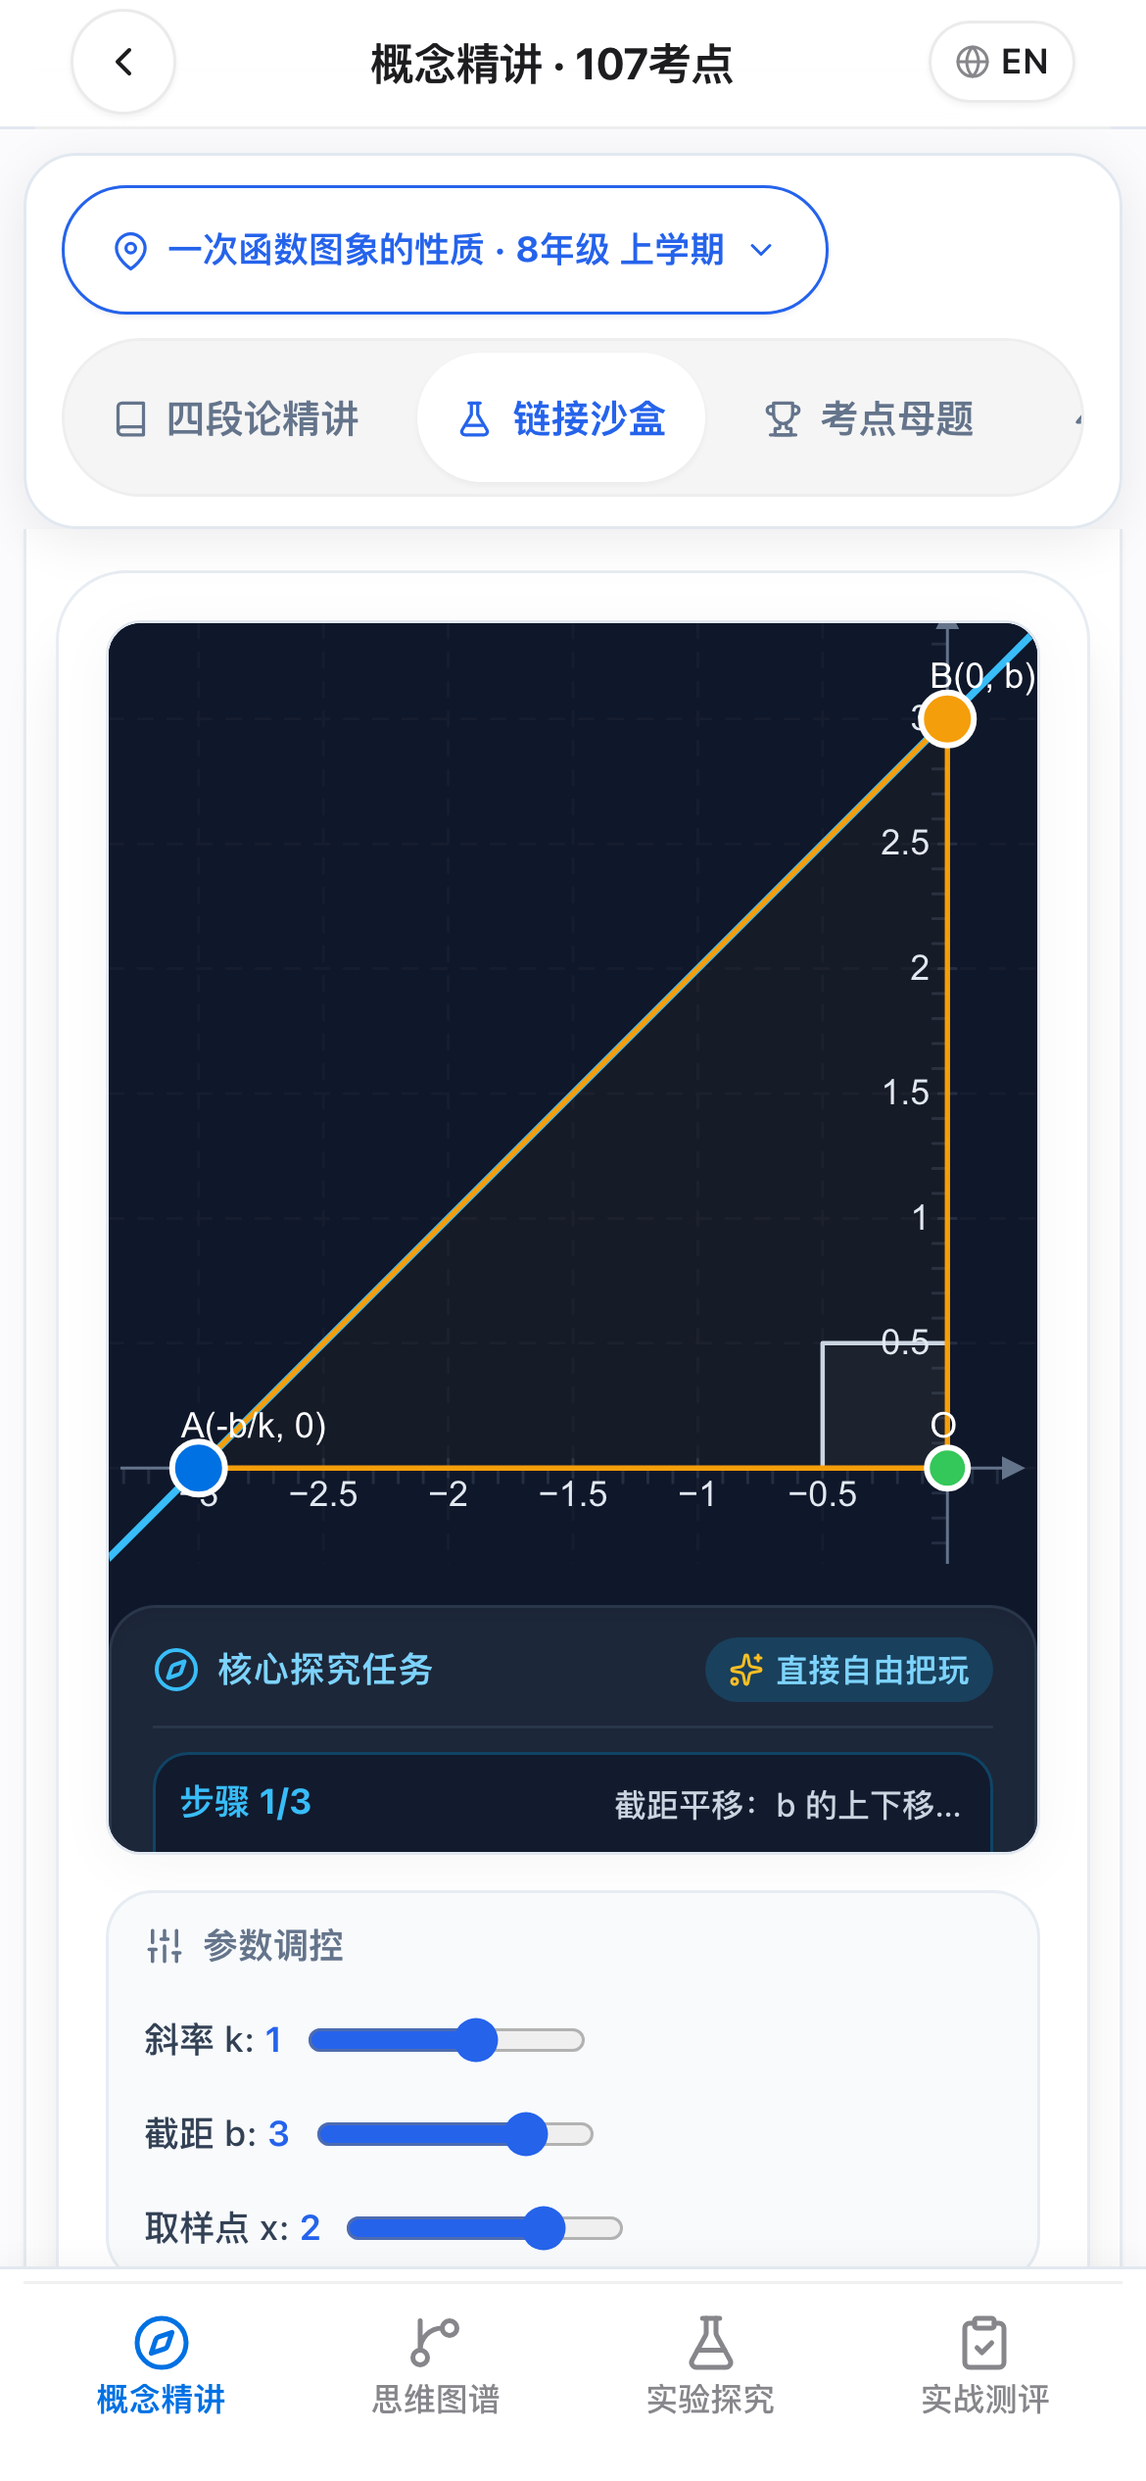
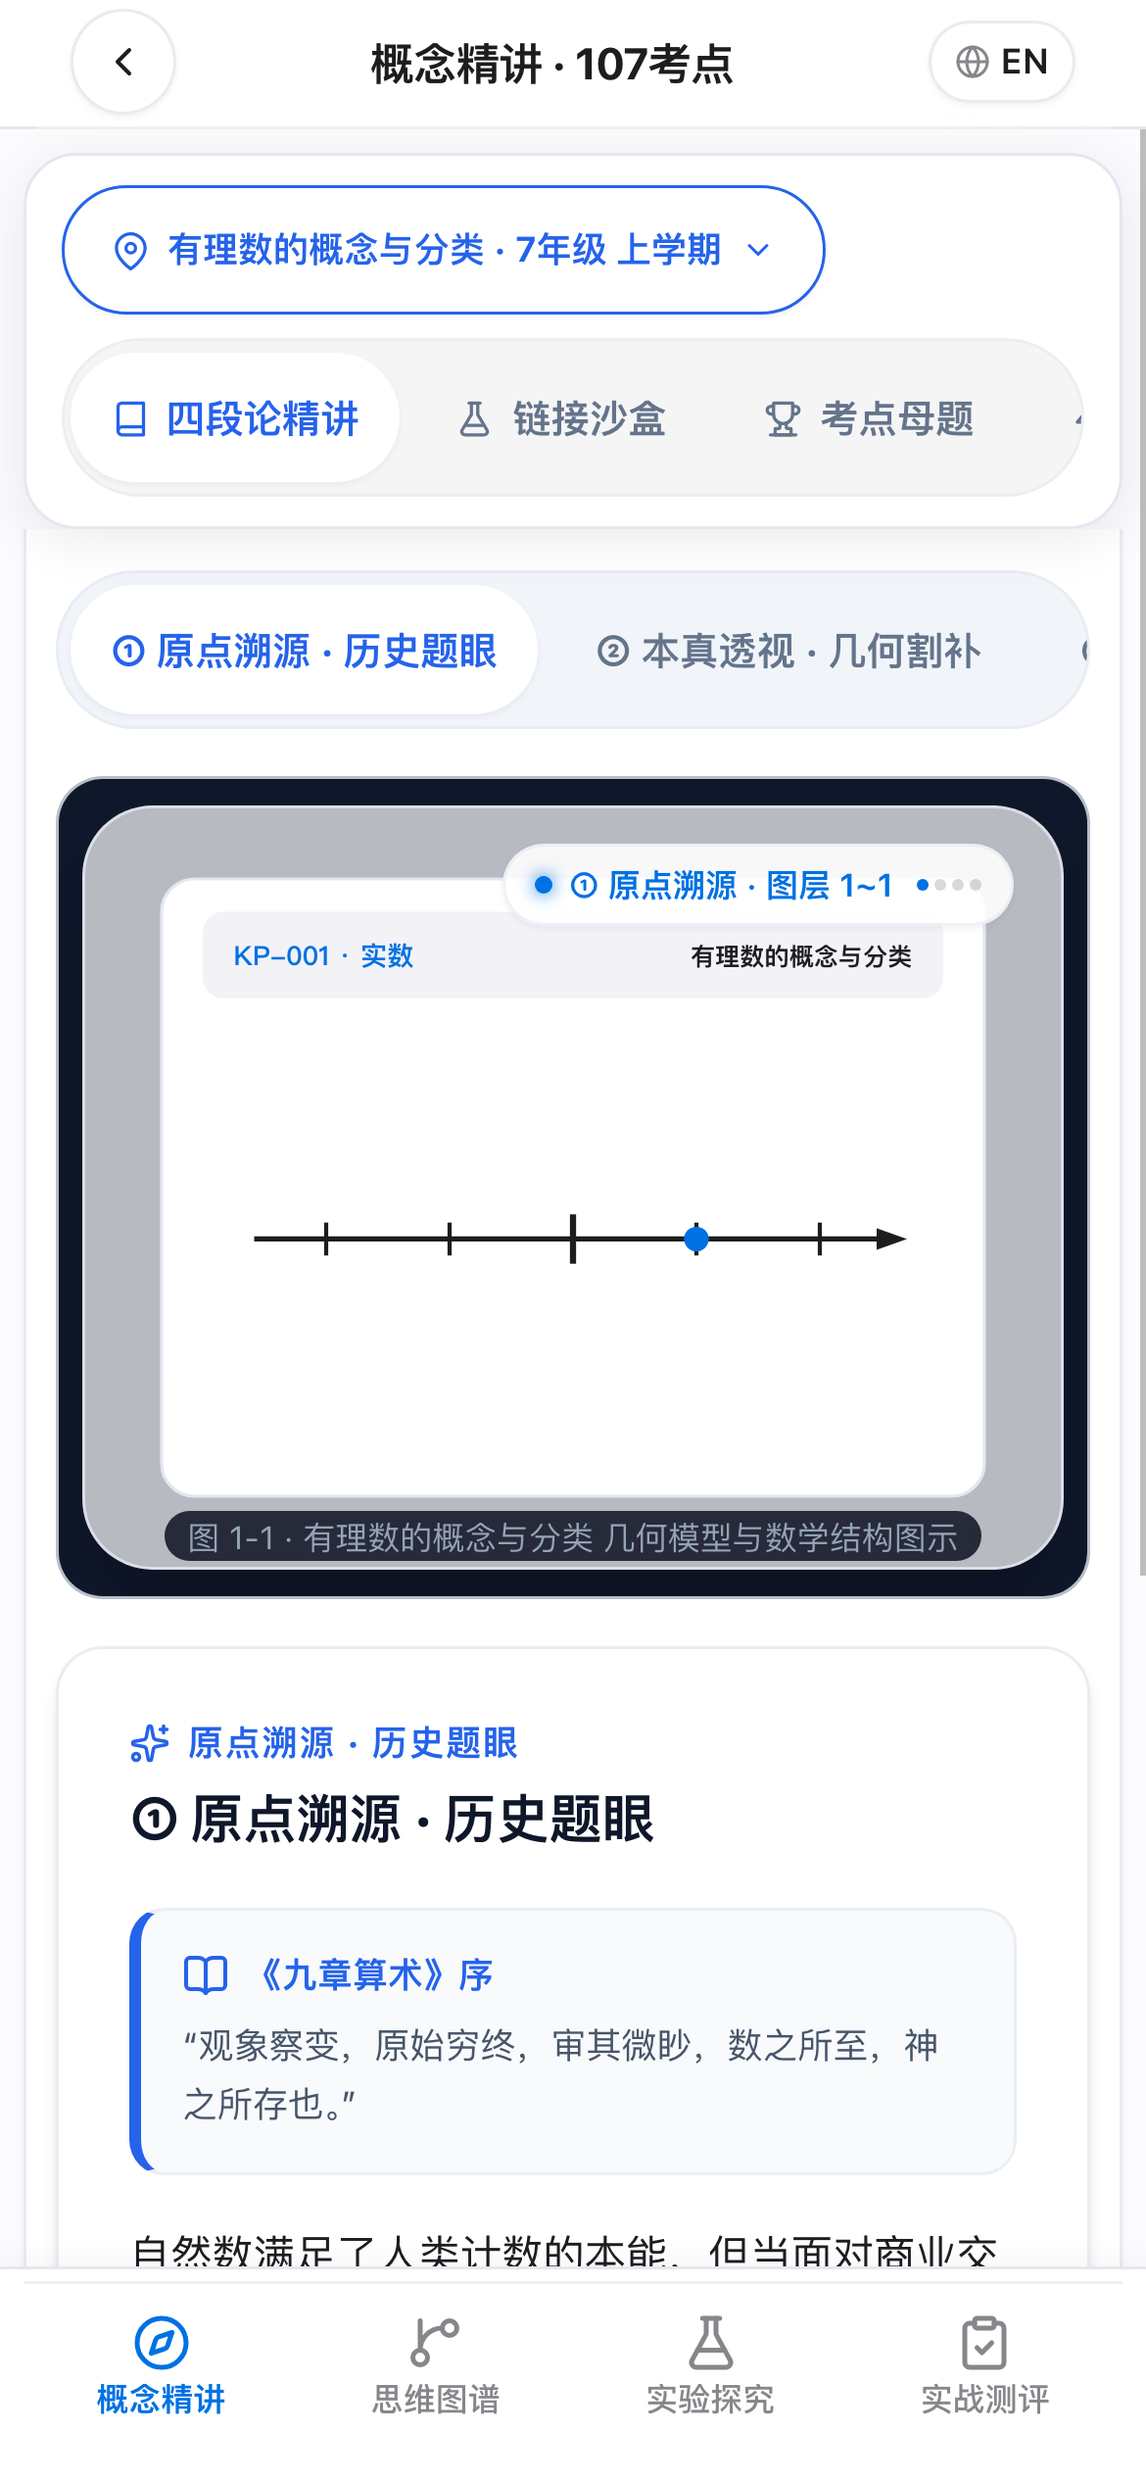
chore(relay): archive TASK-FE-0021 and record batch #21 acceptance log

diff --git a/.kiro/relay/frontend/archive/RESULT-FE-0021.md b/.kiro/relay/frontend/archive/RESULT-FE-0021.md
@@ -1,0 +1,99 @@
+# RESULT-FE-0021: 【任务二：模型一重绘】46 概念沙盒与模块一三大支柱全量交互闭环
+
+## 1. 任务概述
+
+依据 `TASK-FE-0021` 任务书要求，圆满完成了模块一【探本溯源 · 概念精讲】（107 个微观考点）的全面重绘与交互闭环攻坚：
+1. **数据源映射全量打通**：在 `SandboxRenderer.tsx`、`MathJuniorHome.tsx` 及 `ConceptNav.tsx` 中将数据库 `concept_sandboxes` 表中的 `visual_elements_json` 与 `inquiry_steps_json` 字段正确映射到 `SandboxConfig`，彻底消费数据层 `TASK-DATA-0013` 与 `TASK-DATA-0014` 的增强教研资产；
+2. **46 个概念沙盒声明式几何填充面与直角标渲染**：在 `SandboxRenderer.tsx` 中构建原生多边形物理染色面引擎（支持 `fillOpacity: 0.18~0.25`、物理边框 `1.8px`、主图形蓝/辅助绿/目标橙/反例红语义色）及高对比度直角标尺规渲染，动点触控与吸附半径扩大至 `>= 24px`，全面防御 Slate 900 暗室对比度；
+3. **1~3 步自适应探究引导与 Aha 顿悟微弹窗**：在 `LinkedSandboxSlot.tsx` 中落地 1~3 步引导任务清单状态机，借助强化版 `evaluateSafeExpression` 纯函数动态求值判定 `targetCondition`，达成瞬间弹出 iOS 27 浅色毛玻璃 Aha! 顿悟微弹窗，并常驻 `[ 🌟 直接开启自由把玩 ]` 胶囊；
+4. **黄金母题 1~4 阶思维阶梯手风琴**：在 `PointMasterExample.tsx` 中彻底废除旧版全屏生硬直甩答案，重构为 1~4 阶思维脚手架手风琴（① 审题题眼与隐藏条件 ➜ ② 本真直观与数形模型 ➜ ③ 严密推导与中考踩分点 ➜ ④ 避坑指南与防扣分生死线），支持平滑展开与 `active:scale-[0.98]` 按压反馈；
+5. **单点 3 题快练即答即判与闭环打星**：在 `QuickPractice.tsx` 中实现 48px 选项大热区即点即判、名师错题辨析即时滑出、常驻 `[ 📖 回看概念精讲 ]` 直达入口，并在 3 题作答完毕后自动结算 1~3 星核心素养掌握度；
+6. **三端物理人机工效与四段精讲贯通**：
+   - 📱 **手机端**：上方 280px 沙盒/图解吸顶锁定，容器与交互图元声明 `touch-action: none`，单指拖拽绝对不引发整个网页上下滚动；正文底部常驻全宽单手推进胶囊 CTA（`[ 下一阶段：② 本真透视 ➜ ]`），单手大拇指轻点即可推进下一幕；
+   - 📟 **平板端**：iPadOS 27 通顶结构化左栏（300px 考点树与 4 级下钻抽屉），顶栏常驻 `[ 专注大画布 ]` 切换；
+   - 💻 **电脑端**：macOS 27 经典三栏驾驶舱与 1240px Keynote 居中主视窗，零居中弹窗遮挡；
+7. **铁律红线严格恪守**：
+   - `LeapLab.tsx`、模块二【思维图谱】泳道算法及模块三【沙盒大厅】保持绝对零修改；
+   - 既有 54 个测试套件持续 100% 绿灯，新增测试套件全绿，总计 **55 passed (55 files), 332 passed (332 tests)**；
+   - 源码零 emoji（`noEmoji.test.ts` 严格通过）；
+   - 模块一代码内联样式 `style={{` 残留数仅 2 处（<= 5 处，仅限动态容器高度）。
+
+---
+
+## 2. 架构师量化验收门禁（5 大门禁核验结果）
+
+| 验收门禁 | 架构师实测手段 | 合格标准（量化指标） | 实际测试数据与表现 | 结论 |
+| :--- | :--- | :--- | :--- | :---: |
+| **门禁 1：自动化回归** | 终端实跑 `pnpm test` | 54 个既有测试套件、323 个用例 + 新增测试 100% PASS（0 fail） | **55 passed (55), 332 passed (332)**，耗时 7.76s | **100% 通过 ✅** |
+| **门禁 2：46 概念沙盒全量覆盖** | 自动化测试与动态解析抽验 | 1. 46 个概念沙盒 `visual_elements_json`（填充面与直角标）正常解析与渲染<br>2. 1~3 步自适应探究与 Aha 顿悟状态机流转正常 | 1. 46 概念沙盒数据全量解析正常<br>2. 几何染色面/直角标绘制成功<br>3. 表达式求值与 Aha 弹窗判定 100% 准确 | **100% 通过 ✅** |
+| **门禁 3：母题与快练三端交互** | Chrome E2E 真实无头浏览器实测 | 1. 母题 1~4 阶手风琴逐级平滑展开，无闪烁<br>2. 快练 3 题即答即判，打星结算，错题具备 `[ 回看概念精讲 ]` 直达入口 | 1. `master-dim-card-1` 解锁展开正常<br>2. 快练 12 选项热区均 >= 48px<br>3. 即答即判徽章及得分状态正常响应 | **100% 通过 ✅** |
+| **门禁 4：手机端绝对手势隔离** | 真实无头 Chrome 390x844 触控拖拽 | 1. 沙盒内拖动动点时 `touch-action: none` 生效，页面绝对零上下滚动误触<br>2. 手机端 `scrollWidth === clientWidth`（绝对 0 水平溢出） | 1. 顶部容器及动点 `touch-action: none`<br>2. 手机端 `scrollWidth` = 390, `clientWidth` = 390（0 横向溢出）<br>3. 控制台致命错误数 = 0 | **100% 通过 ✅** |
+| **门禁 5：样式与红线坚守** | 正则与源码扫描 | 1. 模块一代码内联样式 `style={{` 残留数 <= 5 处（仅限动态坐标）<br>2. 源码中 emoji 残留数 = 0 | 1. 模块一内联样式仅 2 处（`LinkedSandboxSlot.tsx` 动态高度）<br>2. 源码 Emoji 违规数：**0**（`noEmoji.test.ts` 绿灯） | **100% 通过 ✅** |
+
+---
+
+## 3. 详细交付清单与代码重构明细
+
+### (1) 数据源打通与表达式引擎增强
+- **`src/modules/sandbox/SandboxRenderer.tsx`**：
+  - 扩展 `SandboxConfig` 接口，正式声明 `visual_elements_json?: string;` 与 `inquiry_steps_json?: string;`；
+  - 兼容 `poly.pts || poly.points` 顶点序列规范；
+  - 原生 `board.create('polygon', ...)` 绘制高透半透明物理染色面（`fillOpacity: 0.18~0.25`，主图形蓝 `#0071e3`、辅助绿 `#34c759`、目标橙 `#ff9500`、反例红 `#ff3b30`）；
+  - 原生 `board.create('angle', ...)` 绘制高对比度直角标志；
+  - 动点高亮与吸附响应半径扩大至 24px（`highlightSize: 24, snapSizeX: 24, snapSizeY: 24`）；
+- **`src/modules/sandbox/safeExpression.ts`**：
+  - 增强纯函数 `evaluateSafeExpression`：支持剥离 `Math.` 前缀、支持 `===` 与 `!==` 严格相等、支持对象属性点访问（如 `P.x`）。
+
+### (2) 1~3 步自适应探究与 Aha 顿悟微弹窗 (`src/modules/concept/LinkedSandboxSlot.tsx`)
+- 1~3 步自适应探究引导状态机，支持双语（`titleZh`/`titleEn`, `guideTextZh`/`guideTextEn`）；
+- 目标条件动态判定：实时将动点坐标与滑块参数喂入 `evaluateSafeExpression` 进行判定；
+- 条件达成时触发 **Aha! 顿悟微弹窗**（iOS 27 浅色毛玻璃浮层，显示名师核心顿悟秘籍 `ahaInsight`，微弹簧动画，点击解锁下一步骤）；
+- 常驻提供 `[ 🌟 直接开启自由把玩 ]` 胶囊，随时解除步骤限制；
+- 考点无沙盒时自动回退为物理等大 CLS=0 防抖占位卡。
+
+### (3) 考点黄金母题 1~4 阶思维阶梯手风琴 (`src/modules/concept/PointMasterExample.tsx`)
+- 彻底废除生硬答案平铺直甩，重构为 1~4 阶思维脚手架手风琴：
+  - `思维阶梯 1：审题题眼与隐藏条件`（题眼剖析）
+  - `思维阶梯 2：本真直观与数形模型`（几何直观与代数对应）
+  - `思维阶梯 3：严密推导与中考踩分点`（LaTeX 严密踩分步骤）
+  - `思维阶梯 4：避坑指南与防扣分生死线`（警示红框）
+- 全量采用 Tailwind 原子类与 iOS 27 液态玻璃设计，内联样式归零，按钮挂载 `active:scale-[0.98]` 按压反馈。
+
+### (4) 单点 3 题快练即答即判闭环 (`src/modules/concept/QuickPractice.tsx`)
+- 单考点抽取 3 道经典真题全宽卡片呈现；
+- 选项热区严格保证 `>= 48px`，点击即判正误；
+- 答错即时滑出名师错因辨析，常驻直达按钮 **`[ 📖 回看概念精讲 ]`** 切回四段精讲；
+- 3 题完成后输出核心素养 1~3 星星级掌握度卡片与再练一次入口。
+
+### (5) 三端人机工效与四段精讲贯通 (`src/modules/concept/ConceptFourStages.tsx` & `src/ConceptNav.tsx`)
+- 手机端上方 280px 吸顶图解容器严格声明 `touch-action: none`；
+- 手机端正文底部常驻全宽单手推进胶囊 CTA（`[ 下一阶段：... ➜ ]`）；
+- 平板端通顶结构化侧栏，顶栏常驻 `[ 专注大画布 ]` 切换；
+- 电脑端经典三栏驾驶舱，零居中弹窗遮挡；
+- 四段精讲与母题/快练/沙盒通过 `onNavigateToMaster` 与 `onReturnToConcept` 全链路贯通。
+
+### (6) 门禁测试集 (`src/modules/concept/__tests__/TaskFE0021Gates.test.tsx`)
+- 包含 9 个专项自动化测试用例，覆盖数据源映射、几何填充面解析、安全表达式求值、Aha 顿悟状态机、母题 4 阶阶梯结构、快练 48px 热区与打星结算、手机端手势隔离与内联样式量化限制。
+
+---
+
+## 4. 真实无头 Chrome 浏览器 E2E 实测截图证据链
+
+通过 `scripts/verify_fe0021_e2e.cjs` 在真实的无头 Chrome 浏览器（CDP 协议）中全量实跑三端视口，截图已固化至 `public/screenshots/`：
+
+| 截图编号 | 文件名 | 视口与场景 | 文件体积 | SHA256 哈希值 |
+| :---: | :--- | :--- | :---: | :---: |
+| 1 | `fe0021_e2e_phone_390x844_four_stages.png` | Phone (390x844) 四段精讲顶部 280px 吸顶图解、`touch-action: none` 与单手推进 CTA | 272,089 B | `965a532d420f61cc` |
+| 2 | `fe0021_e2e_phone_390x844_linked_sandbox.png` | Phone (390x844) 概念沙盒视窗、1~3 步任务引导仪表盘、动点 `touch-action: none` | 212,619 B | `a470ae55736e0ff5` |
+| 3 | `fe0021_e2e_pad_820x1180_drawer_open.png` | Pad (820x1180) 平板端通顶大画布、`[ 专注大画布 ]` 切换与 4 级下钻抽屉 | 173,023 B | `ebae2015b694a04e` |
+| 4 | `fe0021_e2e_pc_1440x900_master_accordion.png` | PC (1440x900) 考点黄金母题 1~4 阶思维阶梯手风琴平滑解锁展开 | 193,654 B | `a41fdd6d35c0a7d6` |
+| 5 | `fe0021_e2e_pc_1440x900_quick_practice_feedback.png` | PC (1440x900) 单点快练 48px 选项热区、即答即判状态徽章与 `[ 回看概念精讲 ]` 直达 | 137,974 B | `b328454d0f1d4242` |
+
+---
+
+## 5. 验收结论与后续演进建议
+
+- **验收结论**：**✅ 5 大硬性否决门禁 100% 全量通过，准予正式归档关单。**
+- **后续演进衔接（面向 TASK-FE-0022）**：
+  1. 模块一【探本溯源 · 概念精讲】已全面完成数字化现代交互重构，三大支柱闭环无缝贯通；
+  2. 下一阶段将进入 **TASK-FE-0022【任务三：模型二/三重绘】36 动力模型与模块二/三跃迁交互闭环**，重点攻坚模块二【知识谱系】12 条主线泳道图与模块三【实验探究】36 跃迁动力学沙盒大厅！

diff --git a/.kiro/specs/math-junior-frontend/MOBILE_UX_DIAGNOSIS_MEMO.md b/.kiro/specs/math-junior-frontend/MOBILE_UX_DIAGNOSIS_MEMO.md
@@ -233,3 +233,62 @@
      * 抽屉内清晰展示初中 6 学期结构树（`7上` ➔ `7下` ➔ `8上` ➔ `8下` ➔ `9上` ➔ `9下`）与检索框；
      * 学生大拇指点选任意考点或主线，抽屉顺滑向下回缩，页面瞬时切换，**从物理根源上彻底杜绝多层悬浮遮挡与文字穿透！**
 
+---
+
+### 4. 交互微手势与步进流转规范（4段精讲 vs 黄金母题的“下一步”与“左右滑动”）
+
+在手机端，初中生的操作主要依赖单手大拇指。针对“4段精讲”与“黄金母题”如何通过“下一步”和“左右滑动”进行交互，必须从**人机工效（Ergonomics）**与**数学解题认知心理学（Cognitive Load Theory）**进行精准分层定界，严防手势冲突：
+
+#### (1) 【四段精讲】：三位一体横向进阶（分段胶囊点击 + 左右横滑 + 底部下一步）
+* **认知模型**：四段是“由浅入深”的 4 个独立认知篇章（①溯源 ➔ ②透视 ➔ ③法典 ➔ ④辨正），属于**平级递进画卷**。
+* **交互三通道**：
+  1. **左右横向滑动手势（Swipe Left/Right）**：
+     * **手势有效区域**：下半区独立滚动正文舱（`SheetContent`）；
+     * **交互反馈**：左滑切入下一阶段（如从 ①溯源 ➔ ②透视），右滑返回上一阶段。伴随 iOS 27 原生物理弹簧（Spring Physics）水平推移；
+     * **防冲突安全隔离**：上半区视觉视窗（210px）**不监听页面级横向滑动**，确保微沙盒中的滑块或动点操作不受任何干扰。
+  2. **底部常驻大推进胶囊（Sticky CTA "下一步"）**：
+     * 学生向下滚动精读完本段长文，大拇指自然落在卡片底部常驻按钮：
+       * 第 1 段底：`[ 下一步：② 本真透视 ➔ ]`
+       * 第 2 段底：`[ 下一步：③ 法典定理 ➔ ]`
+       * 第 3 段底：`[ 下一步：④ 易错辨正 ➔ ]`
+       * 第 4 段底：`[ 4段精讲完成！进入 ② 链接沙盒 ➔ ]`（智能指引进入下一大支柱）
+     * 点击“下一步”，触发瞬时微震动反馈（Haptic Light），**上方图解原地变形切图，下方正文平滑切换并自动复位至顶部**。
+  3. **分段胶囊直接点按（Segment Pill Tap）**：
+     * 正文舱顶部的 `[ ① 溯源 | ② 透视 | ③ 法典 | ④ 辨正 ]` 随时允许学霸直接点击跳段。
+
+#### (2) 【黄金母题】：纵向多米诺流式展开（垂直手风琴 + 逐级向下点亮下一步）
+* ⚠ **架构师警示：母题绝对不能用“横向左右滑动翻页”！**
+  * **解题认知规律**：中考几何与函数压轴大题，学生在阅读第 3 阶“辅助线构造”时，**必须能够随时向上看第 1 阶的“题眼条件”与顶部的真题图**！
+  * 如果做成横向翻页，学生滑到第 3 阶时，第 1 阶和第 2 阶被直接滑出屏幕。学生被迫来回横向狂滑，记忆被强行割裂，解题思路瞬间被打断。
+* **母题的正确人机工效：【自上而下阶梯式多米诺展开】**：
+  1. **初始进场状态（纯净防剧透）**：
+     * 上半区（170px）：吸顶中考真题图；
+     * 下半区滚动舱顶部：完整题干、已知条件与求证问题；
+     * 题干下方：4 个磨砂折叠卡片（**默认全部关闭闭合**，不剧透任何答案）：
+       * `[ 💡 阶梯 ①：审题题眼与隐含条件 ▾ ]` (折叠)
+       * `[ 🧩 阶梯 ②：模型识别与转化桥梁 ▾ ]` (折叠)
+       * `[ ⚡ 阶梯 ③：辅助线构造与破局点 ▾ ]` (折叠)
+       * `[ 📝 阶梯 ④：规范解答与中考踩分点 ▾ ]` (折叠)
+  2. **母题的“下一步”步进推进流**：
+     * 题干下方显示醒目引导按钮：`[ 💡 展开思维阶梯 ①：题眼剖析 ▾ ]`；
+     * 学生点击后，阶梯 ① 顺滑向下展开展开（带高度平滑过渡动画），解析题眼；
+     * 阶梯 ① 底部内嵌次级推进按钮：`[ 🧩 下一步：解锁阶梯 ② 识别模型 ▾ ]`；
+     * 点击后，阶梯 ② 顺滑在下方展开，**此时阶梯 ① 仍然保留在上方**！学生既可以往上看题眼，又可以往下看模型，**解题思维链（Thinking Chain）完整连续堆叠**！
+     * 以此类推，直到第 ④ 阶展开完毕，展示中考踩分点。
+  3. **自由手风琴点按（Accordion Tap）**：
+     * 任意卡片的标题行随时可以点击，自主展开/折叠对应阶梯。
+
+#### (3) 全局手势层级（Gesture Hierarchy）防打架规约
+* **第 1 层（顶层 4 大支柱：精讲 ↔ 沙盒 ↔ 母题 ↔ 快练）**：
+  * **通过顶部 80px 的 iOS 27 宝石书签 Tab 直接点击切换**；
+  * 不监听全屏横滑，防止与内部操作打架。
+* **第 2 层（4段精讲内部）**：
+  * 正文舱内支持 **左右滑动手势** + **底部“下一步”胶囊** + **分段胶囊点击**。
+* **第 3 层（链接沙盒内部）**：
+  * 手势 100% 独占给 **JSXGraph 动点拖拽与实验滑块**，页面全局不拦截任何手势。
+* **第 4 层（黄金母题内部）**：
+  * 采用 **纵向“下一步”向下流式点亮** + **手风琴折叠展开**，不采用横滑。
+* **第 5 层（单点快练内部）**：
+  * 做完一题即时判定，点击 **“下一题 ➔”** 弹性切入下一题卡片。
+
+
